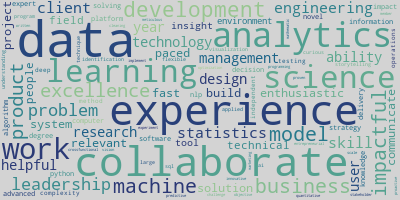
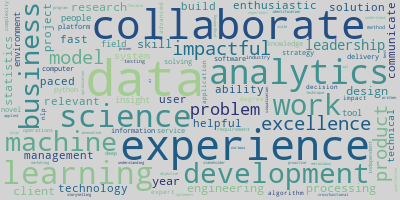
removed stopword pollution

diff --git a/nlp_main.py b/nlp_main.py
@@ -250,16 +250,16 @@ def clean_terms_for_nlp(series_of_interest):
     # add additional stopwords to nltk default stopword list; counts between 20 and 50 are evaluated but not included in the lists
     # counts of 19 and below are neither evaluated nor included in the stopword list or skill lists
     additional_stopwords = sorted(list(set(['14042', '3rd', '401k', '50', '500', 'a16z', 'able', 'accepted',
-                                            'access', 'accommodation', 'accomodation', 'account', 'across',
+                                            'accommodation', 'accomodation', 'account', 'across',
                                             'action', 'additional', 'adhering', 'affiliation', 'affirmative',
                                             'age', 'allen', 'also', 'amazecon', 'america', 'amount', 'ancestry',
-                                            'andor', 'angeles', 'another', 'applicable', 'applicant', 'application',
+                                            'andor', 'angeles', 'another', 'applicable', 'applicant',
                                             'apply', 'applyaccommodationschangehealthcarecom', 'area', 'around',
                                             'arrest', 'assigned', 'assistance', 'assurance', 'authentic', 'authorization',
                                             'authorized', 'background', 'balance', 'base', 'based', 'basic', 'basis',
-                                            'belief', 'belonging', 'benefit', 'best', 'beyond', 'billion', 'bonus',
+                                            'belief', 'belonging', 'benefit', 'beyond', 'billion', 'bonus',
                                             'booz', 'broad', 'california', 'call', 'candidate', 'cannot', 'capital',
-                                            'card', 'care', 'chain', 'chance', 'characteristic', 'chase', 'check',
+                                            'card', 'care', 'chance', 'characteristic', 'chase', 'check',
                                             'chicago', 'childbirth', 'citizen', 'citizenship', 'city', 'civil',
                                             'classified', 'click', 'clinical', 'closely', 'color', 'colorado', 'come',
                                             'comfortable', 'commitment', 'committed', 'commuter', 'company', 'compensation',
@@ -270,23 +270,23 @@ def clean_terms_for_nlp(series_of_interest):
                                             'currently', 'date', 'day', 'dc', 'december', 'dedicated', 'defense',
                                             'demand', 'dental', 'deploying', 'description', 'disability', 'disclose',
                                             'disclosed', 'disclosure', 'discriminate', 'discrimination', 'discussed',
-                                            'disruption', 'distributed', 'diverse', 'diversity', 'domestic', 'drive',
+                                            'disruption', 'diverse', 'diversity', 'domestic', 'drive',
                                             'drugfree', 'drugtesting', 'due', 'duty', 'eeo', 'eg', 'eligibility',
                                             'eligible', 'email', 'embracing', 'employee', 'employeeled', 'employer',
                                             'employment', 'encouraged', 'enjoy', 'ensure', 'equal', 'equity', 'essential',
-                                            'estate', 'etc', 'every', 'everyone', 'executive', 'existing', 'expression',
+                                            'estate', 'etc', 'every', 'everyone', 'existing', 'expression',
                                             'extensive', 'external', 'fair', 'family', 'fargo', 'federal', 'feel', 'following',
-                                            'fortune', 'francisco', 'friday', 'full', 'fulltime', 'fully', 'furnish',
+                                            'fortune', 'francisco', 'friday', 'fulltime', 'fully', 'furnish',
                                             'furtherance', 'gender', 'genetic', 'genetics', 'getty', 'globe', 'go',
                                             'good', 'group', 'growing', 'hand', 'harassment', 'health', 'healthcare',
                                             'hearing', 'high', 'highly', 'hire', 'hiring', 'history', 'holiday', 'home',
                                             'host', 'hour', 'httpswwwamazonjobsendisabilityus', 
                                             'httpswwwdolgovofccpregscomplianceposterspdfofccp_eeo_supplement_final_jrf_qa_508cpdf',
                                             'httpswwweeocgovemployerseeolawposter', 'human', 'ibm', 'id', 'identity',
-                                            'il', 'include', 'including', 'inclusion', 'inclusive', 'indepth', 'industry',
+                                            'il', 'include', 'including', 'inclusion', 'inclusive', 'indepth',
                                             'inquired', 'inside', 'insurance', 'internal', 'job', 'johnson', 'join',
                                             'jpmorgan', 'kept', 'key', 'kpmg', 'largest', 'law', 'laws', 'least', 'leave',
-                                            'legally', 'letter', 'level', 'leverage', 'life', 'lightspeed', 'like', 'limited',
+                                            'legally', 'letter', 'leverage', 'life', 'lightspeed', 'like', 'limited',
                                             'local', 'location', 'lockheed', 'long', 'looking', 'los', 'love', 'm', 'made',
                                             'maintaining', 'make', 'mandate', 'manner', 'marital', 'martin', 'match',
                                             'matching', 'mature', 'may', 'medical', 'medium', 'mental', 'million', 'minimum',
@@ -295,19 +295,19 @@ def clean_terms_for_nlp(series_of_interest):
                                             'opportunity', 'opportunityaffirmative', 'order', 'ordinance', 'orientation',
                                             'origin', 'outside', 'overview', 'package', 'paid', 'pandemic', 'parental',
                                             'part', 'participate', 'party', 'pay', 'per', 'perform', 'performed',
-                                            'perk', 'personal', 'phone', 'physical', 'place', 'plan', 'please', 'plus',
+                                            'perk', 'personal', 'phone', 'place', 'plan', 'please', 'plus',
                                             'point', 'policy', 'political', 'position', 'posse', 'poster', 'preemployment',
                                             'preferred', 'pregnancy', 'premier', 'prescribe', 'previous', 'primary', 'prior',
-                                            'privacy', 'privilege', 'proceeding', 'process', 'proof', 'protected', 'proud',
+                                            'privacy', 'privilege', 'proceeding', 'proof', 'protected', 'proud',
                                             'provide', 'providing', 'public', 'puerto', 'purchase', 'qualification', 'qualified',
                                             'race', 'range', 'rapidly', 'real', 'reasonable', 'receive', 'recruiter',
                                             'recruiting', 'recruitment', 'referral', 'regard', 'regarding', 'regardless',
                                             'regulation', 'regulatory', 'reimbursement', 'relic', 'religion', 'religious',
-                                            'relocation', 'remote', 'remotely', 'reporting', 'req', 'request', 'required',
-                                            'requirement', 'requires', 'resource', 'responsibility', 'responsible', 'resume',
+                                            'relocation', 'remotely', 'reporting', 'req', 'request', 'required',
+                                            'requires', 'resource', 'responsibility', 'responsible', 'resume',
                                             'retirement', 'reward', 'rico', 'role', 'safety', 'salary', 'salesforcecom',
                                             'salesforceorg', 'san', 'saving', 'schedule', 'scratch', 'secret', 'seeking',
-                                            'self', 'sending', 'senior', 'sense', 'sequoia', 'set', 'sex', 'sexual', 'shape',
+                                            'self', 'sending', 'senior', 'sense', 'sequoia', 'sex', 'sexual', 'shape',
                                             'shift', 'show', 'sincerely', 'small', 'social', 'someone', 'sound', 'spending',
                                             'sponsorship', 'sr', 'standard', 'start', 'state', 'statement', 'status', 'stay',
                                             'stock', 'suite', 'summary', 'supplemental', 'supply', 'support', 'sure',
@@ -323,7 +323,7 @@ def clean_terms_for_nlp(series_of_interest):
                                             'government', 'agency', 'financial', 'institution', 'resolve', 'issue', 'active',
                                             'leveraging', 'drug', 'free', 'monitor', 'successful', 'completion', 'community', 'serve',
                                             'hired', 'accenture', 'chief', 'officer', 'investigation', 'otherwise', 'unless',
-                                            'right', 'thing', 'better', 'function', 'response', 'formal', 'charge', 'b', '2021',
+                                            'right', 'thing', 'better', 'response', 'formal', 'charge', 'b', '2021',
                                             'conducted', 'legal', 'placing', 'manager', 'talent', 'firm', '100', 'ongoing',
                                             'ethnicity', 'conference', 'resident', 'submitting', 'acknowledge', 'mix', 'building',
                                             'celebrates', 'httpswwwdolgovofccppdfpaytransp_20english_formattedesqa508cpdf',
@@ -331,7 +331,7 @@ def clean_terms_for_nlp(series_of_interest):
                                             'top', 'internally', 'externally', 'performance', 'indicator', 'thrive',
                                             'continue', 'grow', 'faculty', 'staff', 'bring', 'closer', 'result', 'space',
                                             'virtual', 'assistant', 'approved', 'save', 'money', 'create',
-                                            'understand', 'various', 'production', 'activity', 'take', 'department', 'provides',
+                                            'various', 'production', 'activity', 'take', 'department', 'provides',
                                             'familiarity', 'others', 'assist', 'needed', 'enable', 'believe', 'effective',
                                             'different', 'planning', 'task', 'want', 'supporting', 'appropriate', 'consumer',
                                             'effort', 'define', 'conduct', 'potential', 'used', 'patient', 'inc',
@@ -382,7 +382,7 @@ def clean_terms_for_nlp(series_of_interest):
                                             'factor', 'starting', 'influenced', 'path', 'us', 'discover', 'possibility',
                                             'unleash', 'ready', 'express', 'craving', 'prepared', 'actual', 'influenced',
                                             'carves', 'ibmare', 'possibility', 'voice', 'cocreate', 'individuality', 'add',
-                                            'alter', 'fabric', 'truly', 'personally', 'hundred', 'thousand', 'six', 'month',
+                                            'alter', 'fabric', 'truly', 'personally', 'hundred', 'thousand', 'month',
                                             'layoff', 'recall', 'ethnic', 'sensory', 'past', 'operate', 'there', 'always',
                                             'edward', 'jones', 'nice', 'have', 'determine', 'exceed', 'expectation', 'harmony',
                                             'predisposition', 'carrier', 'dealing', 'listing', 'figure', 'backwards',
@@ -514,7 +514,7 @@ def clean_terms_for_nlp(series_of_interest):
                                             'circle', 'mode', 'supervisor', 'extremely', 'receiving', 'organizing', 'magazine',
                                             'outlined', 'commensurate', 'florida', 'isnt', 'factory', 'district',
                                             'parttime', 'pressure', 'occasional', 'pas', 'utilizes', 'calculation',
-                                            'promoting', 'extended', 'dna', 'quarterly', 'snack', 'deeper', 'courage', 'schema',
+                                            'promoting', 'extended', 'dna', 'quarterly', 'snack', 'deeper', 'courage', 
                                             'acceptance', 'qa', 'perception', 'mitigate', 'nasdaq', 'attend', 'prospect', '24',
                                             'arm', 'air', 'shipping', 'fleet', 'score', 'penn', 'oh', 'gym', 'babs', '11', '60',
                                             'era', 'mitigation', 'introduction', 'civilian', '1st',  'surface', 'league', 'stored',
@@ -1198,7 +1198,7 @@ def clean_terms_for_nlp(series_of_interest):
                                             '75year', 'geo', 'oura', 'eeocompliancespglobalcom', 'forrester', 'arrow', 'accrual',
                                             'multilevel', 'gb', 'secrecy', 'drg', 'eighty', 'differentiator', 'acquires', 'avp',
                                             'ipsos', 'daunting', 'republic', 'carfax', 'outpatient', 'xsell',
-                                            '74000', 'lowest', 'cashierless', 'highscale', 'finicity', 'retrain', 'mdg', 'digest',
+                                            '74000', 'lowest', 'cashierless', 'highscale', 'finicity', 'mdg', 'digest',
                                             'stewarding', 'lsi', 'blacksky', '131', 'kelly', 'reset', 'george', 'autoimmune',
                                             'hcpcs', 'reuters', 'neurodegenerative', 'coolest', 'salient', 'daiichi', 'achiever',
                                             'employerveteransdisabled', 'lateral', 'hobby', 'shehe', 'wired', 'alexis', 'sarah',
@@ -1325,7 +1325,7 @@ def clean_terms_for_nlp(series_of_interest):
                                             'intelligenesis', 'signet', 'pak', 'glean', 'nbc', 'horiba', 'rfp', 'milwaukee',
                                             'auditable', 'wwwaccenturecom', 'ro', 'neon', 'englishspanish', 'rewire', 'wafer',
                                             'seedinvest', 'cohesion', '43', 'sondermind', 'aerial', 'lime', 'recurlys', '42',
-                                            'moore', 'ulta', 'cbs', 'americorps', 'phenotype', 'oakland', 'tyson', 'confluence',
+                                            'moore', 'ulta', 'cbs', 'americorps', 'phenotype', 'oakland', 'tyson', 
                                             'essentially', 'passive', 'dentalvision', 'bag', 'noncompete', 'lumedic', 'groupons',
                                             'disparity', 'visualized', 'touched', 'juggling', 'datto', '18000', 'interactivity', 
                                             'versioned', 'salesforces', 'cdp', 'biorad', 'ben', 'disseminating', 'readability',
@@ -1365,7 +1365,7 @@ def clean_terms_for_nlp(series_of_interest):
                                             'licensures', 'budgetary', '119880', 'httpswwwlinkedincomcompany1603', 'patreon', 
                                             'ihub', 'acrobat', 'attrition', 'eventbrite', 'samara', 'sentar', 'infra',
                                             'combination', 'handson', 'high', 'higher', '35', 'military', 'militaryveteran',
-                                            'molecular', 'prior', 'track', 'service', 'solid', 'track', 'asaservice', 'ad', 
+                                            'molecular', 'prior', 'track', 'solid', 'track', 'asaservice', 'ad', 
                                             'transform', 'natural', 'next', 'ppas', 'maker', 'sparkcognition', 'flow',
                                             'fast', 'faster','high', 'highly', 'oriented']))) 
     
@@ -2996,14 +2996,13 @@ def nlp_skill_lists(additional_stopwords):
     
     ds_skills_combined = ds_cred_terms + ds_tech_skill_terms + ds_soft_skill_terms + ds_prof_skill_terms
 
-    ####### !!!!!!!! START HERE NEXT  #########
     # confirm exclusivity of each list with the additional_stopwords list in the clean_terms_for_nlp function
     print('***** Stopword and Skill List Testing ***** \n')
     print(f'Test for Stopword pollution in skill lists: {not set(ds_skills_combined).isdisjoint(additional_stopwords)}\n')
     stopword_pollutants = list(set(additional_stopwords).intersection(ds_skills_combined))
     print(f'Stopword pollutants: {stopword_pollutants}\n')
-        
-    # measure overlap among three key lists
+    
+    ####### !!!!!!!! START HERE NEXT  #########
     
     return ds_cred_terms, ds_tech_skill_terms, ds_soft_skill_terms, ds_prof_skill_terms, ds_skills_combined
 
@@ -3022,7 +3021,8 @@ def visualize_indeed_metadata(df):
     None. Directly outputs visuaizations.
 
     '''
-    print('\nVisualizing Indeed data charts...')
+    print('\n***** Visualization *****\n')
+    print('Visualizing Indeed data charts...')
     
     # configure plot size, seaborne style and font scale
     plt.figure(figsize=(7, 10))
@@ -3179,11 +3179,12 @@ def nlp_count_n_grams(terms_for_nlp, n_gram_count, n_gram_range_start, n_gram_ra
 
     '''
     # indicate processing status in the console
+    print('\n***** Natural Language Processing *****')
     print('\nIdentifying n_grams...')
     
     # count n grams in the field of interest, bounding the count according to n_gram_range_start and n_gram_range_stop
     n_grams = (pd.Series(nltk.ngrams(terms_for_nlp, n_gram_count)).value_counts())[n_gram_range_start:n_gram_range_stop]
-    print(n_grams)
+    # print(n_grams)
     
     # visualize n_grams
     visualize_n_grams(n_grams)
